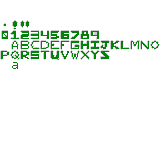
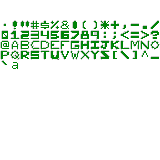
finish must have symbols for 'min' font

diff --git a/drafts/mess_pusher/demo.js b/drafts/mess_pusher/demo.js
@@ -17,7 +17,7 @@ class Example extends Phaser.Scene {
         this.mp = new MessPusher({
             key: 'min',
             scene: this,
-            text: '0123456789\nABCDEFGHIJKLMNOPQRSTUVWXYZ\n !#$%&*\(\)-_;:\'\",.?/\/'
+            text: '0123456789\nABCDEFGHIJKLMNOPQRSTUVWXYZ\n !#$%&*\(\)-_;:\'\",.?\/\\\<\>\[\]'
         });
         
     }

diff --git a/todo.md b/todo.md
@@ -107,7 +107,7 @@ Each task will then involve one or more actions such as 'findDonation', 'pickUpD
     * ( done ) - start png and xml for 'min' font
     * ( done ) - finish upercase letters for 'min' font
     * ( done ) - finish numbers for 'min' font
-    * (      ) - finish must have symbols (!#$%()'";:.?/\-_+=)
+    * ( done ) - finish must have symbols for 'min' font
 
   /state/boot.js :
     * ( done ) - use console logger for console output
